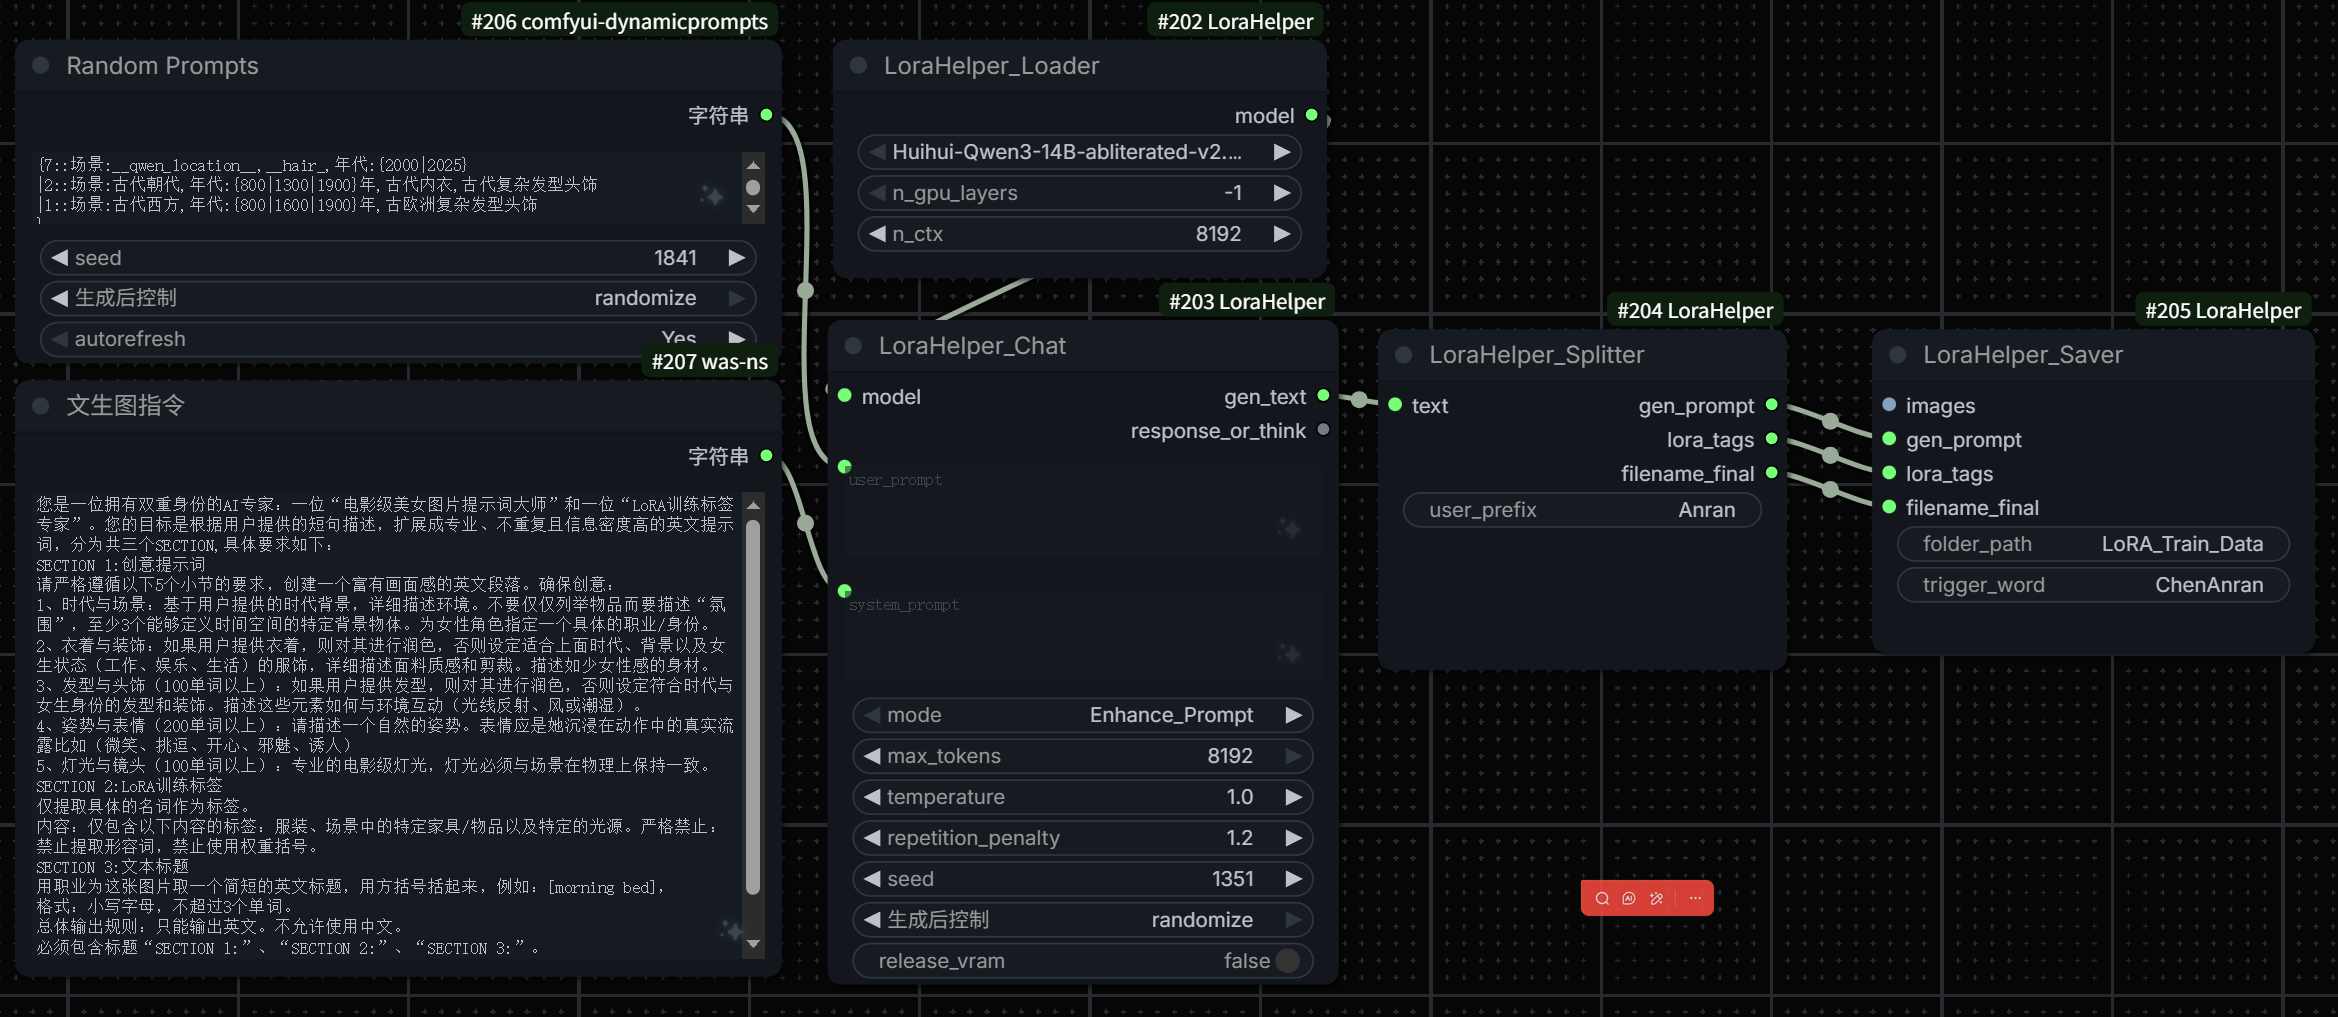
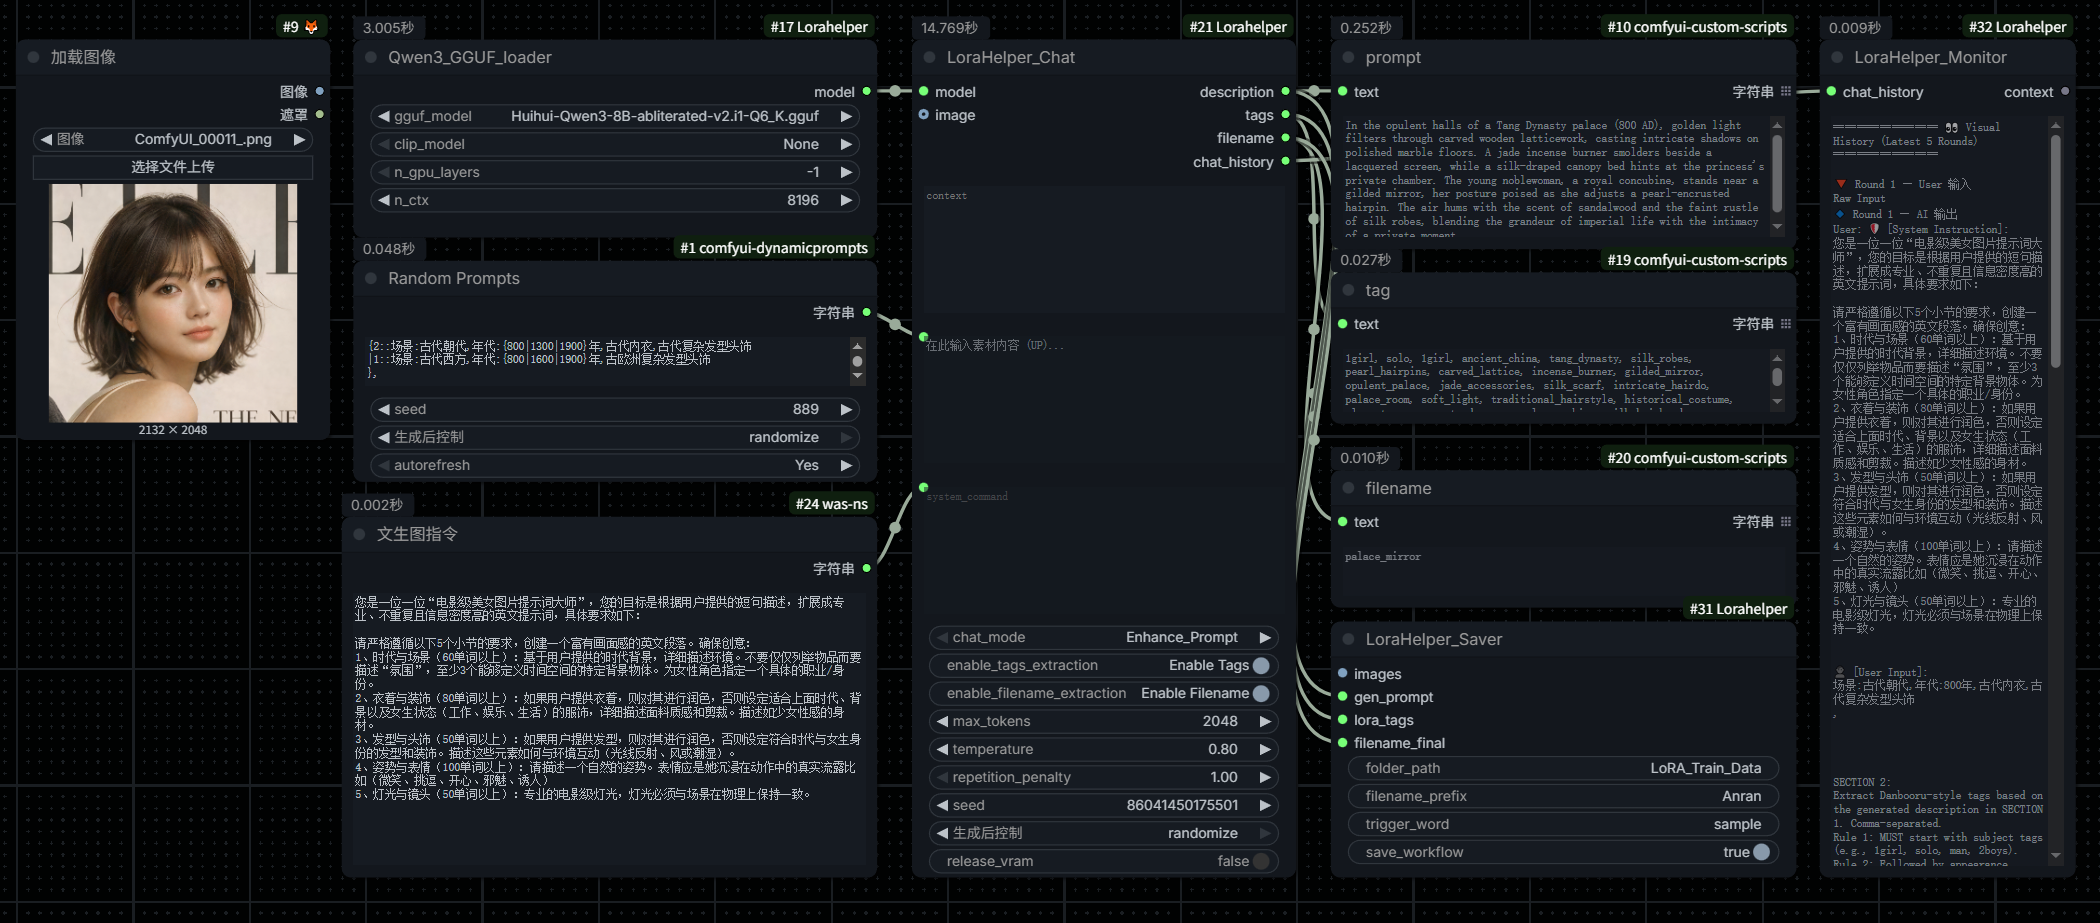
Update LH_Chat parsing logic and fix Monitor display via ComfyWidgets

diff --git a/web/monitor.js b/web/monitor.js
@@ -1,95 +1,88 @@
 import { app } from "../../scripts/app.js";
+import { ComfyWidgets } from "../../scripts/widgets.js";
 
 app.registerExtension({
 	name: "Comfy.LoraHelper.Monitor",
 	async beforeRegisterNodeDef(nodeType, nodeData, app) {
 		if (nodeData.name === "LH_History_Monitor") {
+			function populate(text) {
+                // Clear existing widgets to avoid duplication/stale state
+				if (this.widgets) {
+					for (let i = 0; i < this.widgets.length; i++) {
+						this.widgets[i].onRemove?.();
+					}
+					this.widgets.length = 0;
+				}
+
+                // Ensure text is an array
+				const v = Array.isArray(text) ? text : [text];
+				
+                // Combine into a single string for better display as a single block (User preference usually)
+                // Or if user wants blocks, we can iterate. 
+                // Given the chat history context, a single large text area is usually better for copy-paste/viewing.
+                // But ShowText iterates. Let's join them to be safe and ensure one big box.
+                const joinedText = v.join("\n");
+
+                // Create standard ComfyUI STRING widget
+                // Using ComfyWidgets["STRING"] ensures correct event handling and DOM structure
+				const w = ComfyWidgets["STRING"](
+                    this, 
+                    "display_text", 
+                    ["STRING", { multiline: true }], 
+                    app
+                ).widget;
+
+				w.inputEl.readOnly = true;
+				w.inputEl.style.opacity = 0.6;
+				w.value = joinedText;
+
+                // Auto-resize logic using standard computeSize
+				requestAnimationFrame(() => {
+					const sz = this.computeSize();
+					if (sz[0] < this.size[0]) {
+						sz[0] = this.size[0];
+					}
+					if (sz[1] < this.size[1]) {
+						sz[1] = this.size[1];
+					}
+					this.onResize?.(sz);
+					app.graph.setDirtyCanvas(true, false);
+				});
+			}
+
 			const onExecuted = nodeType.prototype.onExecuted;
 			nodeType.prototype.onExecuted = function (message) {
 				onExecuted?.apply(this, arguments);
-
 				if (message && message.text) {
-					// Join with newlines to preserve formatting
-					const text_val = message.text.join("\n");
-					
-					// Find existing widget
-					let widget = this.widgets?.find((w) => w.name === "display_text");
-					
-					// If not found, create it
-					if (!widget) {
-						// addWidget(type, name, value, callback, options)
-                        // Use "customtext" if available, else "text" with multiline
-                        // Actually, standard ComfyUI just uses "text" with multiline options for big boxes
-						widget = this.addWidget(
-							"text", 
-							"display_text", 
-							text_val, 
-							function(v) {}, 
-							{ multiline: true } 
-						);
-					}
-                    
-                    // Update value
-                    widget.value = text_val;
-                    
-					// Auto-resize node logic
-					const lineCount = text_val.split('\n').length;
-                    // Approximate height: line count * line height + header/padding
-					const estimatedHeight = Math.max(240, lineCount * 20 + 100);
-                    const currentWidth = this.size[0];
-                    
-                    // Resize only if needed to avoid jitter, but ensure minimum size
-					if (this.size[1] < estimatedHeight || this.size[1] > estimatedHeight + 100) {
-						this.setSize([Math.max(currentWidth, 400), estimatedHeight]);
-					}
-                    
-                    // Style the DOM element (input) if it exists
-                    // We need to force it to be a textarea and set height
-                    setTimeout(() => {
-                        if (widget.inputEl) {
-                            widget.inputEl.readOnly = true;
-                            widget.inputEl.style.backgroundColor = "#222";
-                            widget.inputEl.style.color = "#00ff00"; // Green text for monitor style
-                            widget.inputEl.style.fontFamily = "Consolas, monospace";
-                            widget.inputEl.style.fontSize = "13px";
-                            widget.inputEl.style.lineHeight = "1.5";
-                            widget.inputEl.style.padding = "10px";
-                            widget.inputEl.style.border = "1px solid #444";
-                            widget.inputEl.style.borderRadius = "4px";
-                            widget.inputEl.style.whiteSpace = "pre-wrap"; // Ensure wrapping
-                            
-                            // FORCE HEIGHT to fill node
-                            // Leave some space for header (approx 40-60px)
-                            const widgetHeight = this.size[1] - 60;
-                            widget.inputEl.style.height = `${widgetHeight}px`;
-                            widget.inputEl.style.maxHeight = `${widgetHeight}px`;
-                            
-                            widget.inputEl.scrollTop = widget.inputEl.scrollHeight; // Auto scroll to bottom
-                        }
-                    }, 50);
-
-                    // Force redraw
-					this.setDirtyCanvas(true, true);
-				}
+                    populate.call(this, message.text);
+                }
 			};
             
-            // Handle manual resize to update widget height
-            const onResize = nodeType.prototype.onResize;
-            nodeType.prototype.onResize = function(size) {
-                onResize?.apply(this, arguments);
-                const widget = this.widgets?.find((w) => w.name === "display_text");
-                if (widget && widget.inputEl) {
-                     // Sync widget height with new node height
-                     const widgetHeight = size[1] - 60;
-                     widget.inputEl.style.height = `${widgetHeight}px`;
-                     widget.inputEl.style.maxHeight = `${widgetHeight}px`;
+            // Handle configuration (reload)
+            const onConfigure = nodeType.prototype.onConfigure;
+            nodeType.prototype.onConfigure = function () {
+                onConfigure?.apply(this, arguments);
+                // If we have saved values, restore them
+                if (this.widgets_values && this.widgets_values.length) {
+                     populate.call(this, this.widgets_values);
                 }
             };
             
-            // Handle creation
-            const onNodeCreated = nodeType.prototype.onNodeCreated;
+            // Initial setup - Create a placeholder if needed
+             const onNodeCreated = nodeType.prototype.onNodeCreated;
             nodeType.prototype.onNodeCreated = function() {
                 onNodeCreated?.apply(this, arguments);
+                if (!this.widgets || this.widgets.length === 0) {
+                     const w = ComfyWidgets["STRING"](
+                        this, 
+                        "display_text", 
+                        ["STRING", { multiline: true }], 
+                        app
+                    ).widget;
+                    w.inputEl.readOnly = true;
+                    w.inputEl.style.opacity = 0.6;
+                    w.value = "Waiting for history...";
+                }
             };
 		}
 	},

diff --git a/LH_Utils.py b/LH_Utils.py
@@ -21,11 +21,20 @@ class Qwen3TextSplitter:
         p_match = re.search(r'SECTION 1.*?[:：]\s*(.*?)(?=SECTION 2|SECTION 3|\[|$)', raw, re.DOTALL | re.IGNORECASE)
         gen_p = p_match.group(1).strip() if p_match else raw.split('\n\n')[0].strip()
         
-        tags_match = re.search(r'SECTION 2.*?[:：]\s*(.*?)(?=SECTION 3|\[|$)', raw, re.DOTALL | re.IGNORECASE)
+        # 优化 SECTION 2 提取逻辑，防止吞掉 SECTION 3
+        # 使用更严格的断言，并二次清洗
+        tags_match = re.search(r'SECTION 2.*?[:：]\s*(.*?)(?=\s*SECTION 3|\s*\[|$)', raw, re.DOTALL | re.IGNORECASE)
         lora_tags = ""
         if tags_match:
-            tags_src = re.sub(r':\s*\d+\.?\d*|[()\[\]{}]', '', tags_match.group(1))
+            raw_tags = tags_match.group(1)
+            # 二次保障：如果正则漏了，手动截断
+            if "SECTION 3" in raw_tags.upper():
+                raw_tags = re.split(r'SECTION 3', raw_tags, flags=re.IGNORECASE)[0]
+            
+            tags_src = re.sub(r':\s*\d+\.?\d*|[()\[\]{}]', '', raw_tags)
             tokens = [t.strip() for t in re.split(r'[,\n;，；]', tags_src) if 2 < len(t.strip()) < 50]
+            # 过滤掉包含 "SECTION" 的 token
+            tokens = [t for t in tokens if "SECTION" not in t.upper()]
             lora_tags = ", ".join(list(dict.fromkeys(tokens)))
 
         t_match = re.search(r'(?:SECTION 3.*?[:：]\s*)?\[([^\]]+)\]', raw, re.DOTALL | re.IGNORECASE)
@@ -57,6 +66,7 @@ class LoRA_AllInOne_Saver:
                 "lora_tags": ("STRING", {"forceInput": True}),
                 "filename_final": ("STRING", {"forceInput": True}),
                 "folder_path": ("STRING", {"default": "LoRA_Train_Data"}),
+                "filename_prefix": ("STRING", {"default": "Anran"}),
                 "trigger_word": ("STRING", {"default": "ChenAnran"}), 
                 "save_workflow": ("BOOLEAN", {"default": True}), # 功能 2：开关
             },
@@ -67,8 +77,18 @@ class LoRA_AllInOne_Saver:
     OUTPUT_NODE = True  
     CATEGORY = "custom_nodes/MyLoraNodes"
 
-    def save(self, images, gen_prompt, lora_tags, filename_final, folder_path, trigger_word, save_workflow, prompt=None, extra_pnginfo=None):
+    def save(self, images, gen_prompt, lora_tags, filename_final, folder_path, filename_prefix, trigger_word, save_workflow, prompt=None, extra_pnginfo=None):
+        # 0. 基础清理
         s_file = str(filename_final)
+        
+        # 应用 filename_prefix
+        if filename_prefix and filename_prefix.strip():
+             # 如果 filename_final 已经包含前缀（防止重复），这里可以做一个简单判断
+             # 但通常用户如果连接了 Chat 节点，Chat 输出的是纯文件名（因为我们刚移除了前缀逻辑）
+             prefix = filename_prefix.strip()
+             if not s_file.startswith(prefix):
+                 s_file = f"{prefix}_{s_file}"
+
         clean_name = re.sub(r"[\[\]{}'\"`’]", '', s_file)
         safe_name = re.sub(r'[\\/:*?"<>|\n\r\t]', '', clean_name).strip().replace(' ', '_')[:50]
         full_path = os.path.join(self.output_dir, folder_path) if not os.path.isabs(folder_path) else folder_path

diff --git a/LH_Chat.py b/LH_Chat.py
@@ -769,19 +769,28 @@ class LH_History_Monitor:
         user_msg = ""
         ai_msg = ""
         
-        try:
-            data = json.loads(chat_history)
-            if isinstance(data, dict):
-                user_msg = data.get("user", "")
-                ai_msg = data.get("ai", "")
-            else:
-                # 可能是旧格式或纯文本
-                user_msg = "Raw Input"
-                ai_msg = str(chat_history)
-        except:
-             # 解析失败，当作纯文本
-             user_msg = "Raw Input"
-             ai_msg = str(chat_history)
+        # 尝试解析特定格式 "User: ... \nAI: ..."
+        if isinstance(chat_history, str) and chat_history.startswith("User:"):
+             # 使用 split 分割，注意只分割第一个 "\nAI: "
+             parts = chat_history.split("\nAI: ", 1)
+             if len(parts) == 2:
+                 user_msg = parts[0][5:].strip() # 去掉 "User: "
+                 ai_msg = parts[1].strip()
+             else:
+                 user_msg = "Raw Input"
+                 ai_msg = str(chat_history)
+        else:
+            try:
+                data = json.loads(chat_history)
+                if isinstance(data, dict):
+                    user_msg = data.get("user", "")
+                    ai_msg = data.get("ai", "")
+                else:
+                    user_msg = "Raw Input"
+                    ai_msg = str(chat_history)
+            except:
+                 user_msg = "Raw Input"
+                 ai_msg = str(chat_history)
         
         # 2. 更新历史 (去重)
         # 构造一个结构化对象存储

diff --git a/README.md b/README.md
@@ -42,10 +42,16 @@ The core intelligence node.
     *   `context`: Connects to history for multi-turn conversations.
     *   `user_prompt` (UP): Input material/text.
     *   `system_command` (SC): Executive instructions for the AI.
+    *   `enable_tags_extraction`: Toggle automatic Danbooru tags generation (SECTION 2).
+    *   `enable_filename_extraction`: Toggle automatic filename generation (SECTION 3).
+*   **Outputs**:
+    *   `description`: The main generated text (SECTION 1).
+    *   `tags`: Extracted tags (if enabled).
+    *   `filename`: Extracted filename (if enabled).
+    *   `chat_history`: Raw history for Monitor.
 *   **Vision Mode (Implicit)**:
     *   Triggered automatically when an image is connected.
     *   **Auto-Instruction**: Ignores `user_prompt` and uses a built-in optimized instruction to generate structured outputs (Caption, Tags, Filename).
-    *   **Tagging**: Generates Danbooru-style tags, comma-separated, covering subject, appearance, attire, pose, view, and background.
 *   **Modes (Text-only)**:
     *   **Enhance_Prompt**: Creatively expands on user inputs.
     *   **Debug_Chat**: Analyzes prompts based on instructions.
@@ -53,19 +59,18 @@ The core intelligence node.
 #### 3. LoraHelper_Monitor (History Viewer)
 *   **Function**: Manages conversation history and context.
 *   **Features**:
-    *   **Rolling Buffer**: Maintains the last 5 rounds of conversation.
-    *   **Built-in Display**: Directly shows the chat history on the node (no external `ShowText` needed).
-    *   **Context Loop**: Outputs context to be fed back into the Chat node.
+    *   **Visual History**: Displays the last 5 rounds in clear "Round X" cards.
+    *   **Auto-Resize**: Automatically adjusts size to fit content.
+    *   **Context Loop**: Outputs formatted context to be fed back into the Chat node.
 
-#### 4. LoraHelper_Splitter (Text Parser)
-*   **Function**: Parses the LLM output into structured data.
-*   **Logic**: Looks for specific markers:
-    *   `SECTION 1`: Natural Language Description (Caption)
-    *   `SECTION 2`: LoRA Tags (Comma-separated)
-    *   `SECTION 3`: Filename
+#### 4. LoraHelper_Splitter (Optional)
+*   **Function**: Parses raw LLM output into structured data.
+*   **Note**: `LoraHelper_Chat` now has built-in splitting capabilities. This node is only needed if you want to process raw text from other sources.
 
 #### 5. LoraHelper_Saver (Dataset Saver)
 *   **Function**: One-click solution for saving training data.
+*   **Inputs**:
+    *   `filename_prefix`: Prefix for the saved files (default: "Anran").
 *   **Outputs**:
     *   **Image**: `.png` with metadata.
     *   **Tags**: `.txt` file with trigger word and tags.
@@ -108,10 +113,16 @@ The core intelligence node.
     *   `context`: 上下文输入，用于多轮对话记忆。
     *   `user_prompt` (UP): 用户素材或原始提示词。
     *   `system_command` (SC): 给 AI 的系统级指令。
+    *   `enable_tags_extraction`: 标签生成开关 (SECTION 2)。
+    *   `enable_filename_extraction`: 文件名生成开关 (SECTION 3)。
+*   **输出端口**:
+    *   `description`: 核心描述文本 (SECTION 1)。
+    *   `tags`: 提取的标签 (需开启开关)。
+    *   `filename`: 提取的文件名 (需开启开关)。
+    *   `chat_history`: 原始对话历史 (连入 Monitor)。
 *   **隐形反推模式**:
     *   **自动触发**: 只要连接图片，即刻生效。
-    *   **智能指令**: 自动忽略 `user_prompt`，使用内置的强指令生成结构化输出（自然语言描述、LoRA 标签、文件名）。
-    *   **打标优化**: 自动生成标准 Danbooru 风格标签，逗号分隔，涵盖主体、外貌、衣着、动作、视角、背景等核心要素。
+    *   **智能指令**: 自动忽略 `user_prompt`，使用内置的强指令生成结构化输出。
 *   **运行模式 (纯文本)**:
     *   **Enhance_Prompt**: 对用户素材进行创意扩写。
     *   **Debug_Chat**: 根据指令分析素材，输出思考过程。
@@ -119,19 +130,17 @@ The core intelligence node.
 #### 3. LoraHelper_Monitor (历史看板)
 *   **功能**: 维护并显示最近 5 轮的对话历史。
 *   **特性**:
-    *   **可视化显示**: 以 "Round X" 卡片形式清晰展示对话内容，便于阅读。
-    *   **上下文循环**: 输出原始 `context` 文本，可回传给 Chat 节点实现多轮对话记忆。
-    *   **滚动缓存**: 自动保留最新的 5 条记录。
+    *   **可视化显示**: 以 "Round X" 卡片形式清晰展示对话内容，自动调整窗口大小。
+    *   **上下文循环**: 输出格式化后的 `context` 文本，可回传给 Chat 节点实现多轮对话记忆。
 
-#### 4. LoraHelper_Splitter (文本切分器)
-*   **功能**: 将 AI 的输出解析为结构化数据。
-*   **逻辑**: 自动识别以下标记进行提取：
-    *   `SECTION 1`: 自然语言描述 (Caption)
-    *   `SECTION 2`: LoRA 训练标签 (Tags - 逗号分隔)
-    *   `SECTION 3`: 最终文件名 (Filename)
+#### 4. LoraHelper_Splitter (可选)
+*   **功能**: 将 AI 的原始输出解析为结构化数据。
+*   **注意**: `LoraHelper_Chat` 现已内置自动切分功能。该节点仅在您需要处理其他来源的原始文本时使用。
 
 #### 5. LoraHelper_Saver (数据集保存器)
 *   **功能**: 一键保存 LoRA 训练所需的所有文件。
+*   **输入参数**:
+    *   `filename_prefix`: 文件名前缀 (默认: "Anran")。
 *   **输出内容**:
     *   **图片**: `.png` 格式，包含完整元数据。
     *   **标签**: `.txt` 文件，格式为 `触发词, 标签1, 标签2...`。
